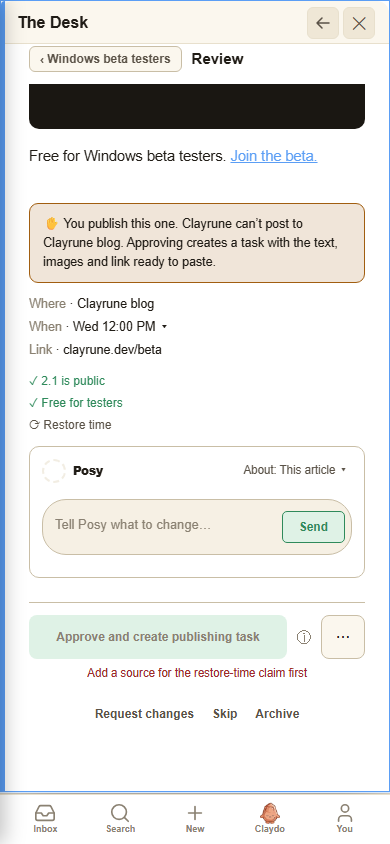
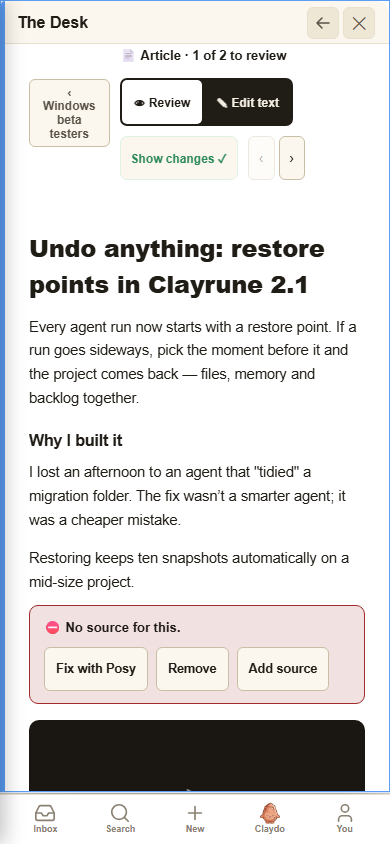
Desk v1 T3: shell crumb-tools slot + kit Posy compact mode (Dave's authorization)
T3's review header previously rendered as its own bordered row below the
shared one-row crumb bar, and the Posy box always showed the name/avatar
row + text "Send" button — neither matched frame 12b, and both were
shared-component code outside T3's file list.

- desk-v1-shell.js: crumb template gains an optional trailing
  #desk-v1-crumb-tools slot, cleared on every deskV1Render(). All 7
  non-review routes render it empty (one row, unchanged Back label).
- desk-v1-kit.js posyBoxHTML(): new opt-in options — compact:true drops
  the name/avatar row, sendStyle:'arrow' swaps the text "Send" button for
  a round icon button (aria-label "Send"). Defaults render byte-identical
  markup to before.
- desk-v1-review.js: moves "Article · 1 of 2 to review" + the
  Review/Edit toggle, Show changes, and < > into #desk-v1-crumb-tools;
  drops the now-obsolete .desk-v1-review-header wrapper and its stale
  _wireAll bindings; Posy box call site uses compact:true, sendStyle:'arrow'.
- tools/smoke/desk-v1-kit.mjs: asserts default Posy box markup is
  unchanged and the new options render.
- tools/smoke/desk-v1-harness.mjs: asserts every non-review route still
  shows a one-row crumb with an empty crumb-tools slot.
- Re-shot t3_review_desktop_1440.png / t3_review_phone_390.png against
  the new layout.

diff --git a/static/js/desk-v1-review.js b/static/js/desk-v1-review.js
@@ -124,6 +124,11 @@
   function _pair() { return _st && _st.versionId ? _findFamilyVersion(_st.versionId) : null; }
 
   // ── render ─────────────────────────────────────────────────────────────
+  function _clearCrumbTools() {
+    const host = document.getElementById('desk-v1-crumb-tools');
+    if (host) host.innerHTML = '';
+  }
+
   function _renderAll() {
     const el = _st.el;
     _closeSelToolbar();
@@ -135,10 +140,15 @@
           <div class="desk-v1-review-empty-body">Every piece in this campaign is scheduled, published, skipped or archived.</div>
           <button type="button" class="desk-v1-stub-link" onclick="deskV1Back()">‹ Back to campaign</button>
         </div>`;
+      _clearCrumbTools();
       return;
     }
     const pair = _pair();
-    if (!pair) { el.innerHTML = `<div class="desk-v1-stub"><div class="desk-v1-stub-body">This version no longer exists.</div></div>`; return; }
+    if (!pair) {
+      el.innerHTML = `<div class="desk-v1-stub"><div class="desk-v1-stub-body">This version no longer exists.</div></div>`;
+      _clearCrumbTools();
+      return;
+    }
     const { family, version } = pair;
     const channel = _channel(version.channelId);
     const detail = _detail(version.id);
@@ -147,7 +157,8 @@
 
     el.innerHTML = `
       <div class="desk-v1-review">
-        ${_headerHTML(family, idx, list.length, isVideo)}
+        <div class="desk-v1-review-savestatus" id="desk-v1-review-savestatus"></div>
+        <div id="desk-v1-review-conflict"></div>
         <div class="desk-v1-review-layout">
           <div class="desk-v1-review-main" id="desk-v1-review-main">
             ${isVideo ? _videoBodyHTML(family, version) : _articleBodyHTML(family, version, detail)}
@@ -157,29 +168,38 @@
           </div>
         </div>
       </div>`;
+    _renderCrumbTools(idx, list.length, isVideo);
     _wireAll(el, family, version, channel, detail, isVideo);
   }
 
-  function _headerHTML(family, idx, total, isVideo) {
+  // Frame 12b's one row (back link · doc label/count · controls): rendered
+  // straight into the shell's own #desk-v1-crumb-tools slot (desk-v1-
+  // shell.js) instead of a second header row inside `el`, so it survives
+  // every _renderAll() the same way the crumb itself does. Shell rebuilds
+  // this slot fresh on every navigation (deskV1Render), so no teardown is
+  // needed when leaving the review route.
+  function _renderCrumbTools(idx, total, isVideo) {
+    const host = document.getElementById('desk-v1-crumb-tools');
+    if (!host) return;
     const kindGlyph = isVideo ? '🎥' : '📄';
     const kindWord = isVideo ? 'Video' : 'Article';
-    return `
-      <div class="desk-v1-review-header">
-        <div class="desk-v1-review-kind">${kindGlyph} ${kindWord} · ${idx + 1} of ${total} to review</div>
-        <div class="desk-v1-review-controls">
-          <div class="desk-v1-review-modetoggle" role="tablist" aria-label="Review or edit">
-            <button type="button" data-mode-btn="review" aria-pressed="${_st.mode === 'review'}">👁 Review</button>
-            <button type="button" data-mode-btn="edit" aria-pressed="${_st.mode === 'edit'}">✎ Edit text</button>
-          </div>
-          <button type="button" class="desk-v1-review-showchanges" data-show-changes aria-pressed="${_st.showChanges}">Show changes${_st.showChanges ? ' ✓' : ''}</button>
-          <div class="desk-v1-review-stepper">
-            <button type="button" data-step="-1" aria-label="Previous needs-you item" ${idx <= 0 ? 'disabled' : ''}>‹</button>
-            <button type="button" data-step="1" aria-label="Next needs-you item" ${idx >= total - 1 ? 'disabled' : ''}>›</button>
-          </div>
+    host.innerHTML = `
+      <div class="desk-v1-review-kind">${kindGlyph} ${kindWord} · ${idx + 1} of ${total} to review</div>
+      <div class="desk-v1-review-controls">
+        <div class="desk-v1-review-modetoggle" role="tablist" aria-label="Review or edit">
+          <button type="button" data-mode-btn="review" aria-pressed="${_st.mode === 'review'}">👁 Review</button>
+          <button type="button" data-mode-btn="edit" aria-pressed="${_st.mode === 'edit'}">✎ Edit text</button>
         </div>
-      </div>
-      <div class="desk-v1-review-savestatus" id="desk-v1-review-savestatus"></div>
-      <div id="desk-v1-review-conflict"></div>`;
+        <button type="button" class="desk-v1-review-showchanges" data-show-changes aria-pressed="${_st.showChanges}">Show changes${_st.showChanges ? ' ✓' : ''}</button>
+        <div class="desk-v1-review-stepper">
+          <button type="button" data-step="-1" aria-label="Previous needs-you item" ${idx <= 0 ? 'disabled' : ''}>‹</button>
+          <button type="button" data-step="1" aria-label="Next needs-you item" ${idx >= total - 1 ? 'disabled' : ''}>›</button>
+        </div>
+      </div>`;
+    host.querySelectorAll('[data-mode-btn]').forEach((b) => b.onclick = () => _setMode(b.dataset.modeBtn));
+    const scEl = host.querySelector('[data-show-changes]');
+    if (scEl) scEl.onclick = () => { _st.showChanges = !_st.showChanges; _renderAll(); };
+    host.querySelectorAll('[data-step]').forEach((b) => b.onclick = () => _step(parseInt(b.dataset.step, 10)));
   }
 
   // ── article body ───────────────────────────────────────────────────────
@@ -363,6 +383,7 @@
 
     const posyHTML = window.DeskV1Kit ? window.DeskV1Kit.posyBoxHTML({
       inputId: 'desk-v1-review-posy-input', scopeLabel: 'This article',
+      compact: true, sendStyle: 'arrow',
     }) : '';
 
     return `
@@ -412,11 +433,6 @@
 
   // ── wiring ─────────────────────────────────────────────────────────────
   function _wireAll(el, family, version, channel, detail, isVideo) {
-    el.querySelectorAll('[data-mode-btn]').forEach((b) => b.onclick = () => _setMode(b.dataset.modeBtn));
-    const scEl = el.querySelector('[data-show-changes]');
-    if (scEl) scEl.onclick = () => { _st.showChanges = !_st.showChanges; _renderAll(); };
-    el.querySelectorAll('[data-step]').forEach((b) => b.onclick = () => _step(parseInt(b.dataset.step, 10)));
-
     el.querySelectorAll('[data-claim-addsource]').forEach((b) => b.onclick = () => { _st.claims[b.dataset.claimAddsource].addingSource = true; _renderAll(); });
     el.querySelectorAll('[data-source-cancel]').forEach((b) => b.onclick = () => { _st.claims[b.dataset.sourceCancel].addingSource = false; _renderAll(); });
     el.querySelectorAll('[data-source-input]').forEach((inp) => inp.oninput = () => { _st.claims[inp.dataset.sourceInput].sourceDraft = inp.value; });

diff --git a/static/css/desk-v1.css b/static/css/desk-v1.css
@@ -19,6 +19,15 @@
 }
 .desk-v1-back:hover { background: var(--surface3); color: var(--text); }
 .desk-v1-crumb-title { font-size: 15px; font-weight: 700; color: var(--text); }
+.desk-v1-crumb-title:empty { display: none; }
+/* Optional per-route trailing content (e.g. T3's doc label/count + review
+   controls, frame 12b's one-row header) — empty on every other route, so it
+   must take no space and add no gap there. */
+.desk-v1-crumb-tools {
+  flex: 1 1 auto; min-width: 0; display: flex; align-items: center;
+  justify-content: space-between; gap: 12px; flex-wrap: wrap;
+}
+.desk-v1-crumb-tools:empty { display: none; }
 .desk-v1-body { flex: 1 1 auto; overflow-y: auto; min-height: 0; }
 
 .desk-v1-stub {
@@ -131,6 +140,19 @@
 .desk-v1-posy-output { min-height: 0; padding: 0; background: transparent; }
 .desk-v1-posy-chips { margin: 0; }
 
+/* compact:true (frame 12b) — no avatar/name to push away from, so the scope
+   chip sits at the row's own left edge instead of being shoved right. */
+.desk-v1-posy-box-compact .desk-thread-head { margin-bottom: 0; }
+.desk-v1-posy-box-compact .desk-v1-posy-scope { margin-left: 0; padding-left: 0; }
+/* sendStyle:'arrow' (frame 12b) — round icon button beside the input,
+   instead of the text .btn-dispatch pill. */
+.desk-v1-posy-send-arrow {
+  flex: 0 0 auto; width: 30px; height: 30px; border-radius: 50%;
+  background: var(--green); color: var(--bg); border: none; cursor: pointer;
+  font-size: 13px; line-height: 1; display: flex; align-items: center; justify-content: center;
+}
+.desk-v1-posy-send-arrow:hover { background: var(--green-text); }
+
 @media (max-width: 960px) {
   .desk-v1-addto-menu button,
   .desk-v1-info-btn { min-height: 44px; }
@@ -165,18 +187,12 @@
 
 .desk-v1-review { display: flex; flex-direction: column; gap: 10px; height: 100%; min-height: 0; }
 
-/* Flush with the shell's own crumb bar above it (frame 12b reads as one
-   continuous header, not two stacked cards) — a bottom rule instead of a
-   floating bordered card. The crumb bar itself is T0a's file (desk-v1-
-   shell.js, docs/desk_v1_r0_plan.md T3 "Files:" line) and shared by every
-   other route, so it isn't merged away here; this is as close as a T3-only
-   change gets. */
-.desk-v1-review-header {
-  display: flex; align-items: center; justify-content: space-between; gap: 12px;
-  flex: 0 0 auto; padding: 0 0 10px; border-bottom: 1px solid var(--border2);
-  flex-wrap: wrap;
-}
-.desk-v1-review-kind { font-size: 13px; font-weight: 600; color: var(--text); }
+/* Frame 12b's one row: doc label/count + controls now render straight into
+   the shell's #desk-v1-crumb-tools slot (desk-v1-shell.js), not a second row
+   of our own — see _renderCrumbTools() in desk-v1-review.js. These classes
+   are shared between that slot and nothing else, so no wrapper rule of our
+   own is needed here anymore. */
+.desk-v1-review-kind { font-size: 13px; font-weight: 600; color: var(--text); white-space: nowrap; }
 .desk-v1-review-controls { display: flex; align-items: center; gap: 10px; flex-wrap: wrap; }
 
 /* Frame 12b: a dark track with the ACTIVE segment as a light pill (not the

diff --git a/static/js/desk-v1-kit.js b/static/js/desk-v1-kit.js
@@ -277,10 +277,18 @@
   // already established for the Queue's push-back thread. This renders
   // markup only — a surface ticket supplies the real scope/suggestion/chips
   // and wires `onSend`; the kit doesn't invent a suggestion source. ────────
+  //
+  // opts.compact / opts.sendStyle are opt-in (frame 12b): compact drops the
+  // avatar+"Posy" name row so the scope chip is the box's only top-row
+  // content; sendStyle:'arrow' swaps the text Send button for a round icon
+  // one. Both default OFF, producing byte-identical markup to before either
+  // option existed — callers that don't pass them are unaffected.
   function posyBoxHTML(opts) {
     opts = opts || {};
     const inputId = opts.inputId || ('desk-v1-posy-input-' + Math.random().toString(36).slice(2));
-    const avatar = (typeof window.avatarHTML === 'function') ? window.avatarHTML(opts.avatar || 'posy', 24) : '';
+    const compact = !!opts.compact;
+    const avatar = (!compact && typeof window.avatarHTML === 'function') ? window.avatarHTML(opts.avatar || 'posy', 24) : '';
+    const nameHTML = compact ? '' : '<span class="desk-thread-name">Posy</span>';
     const scope = opts.scopeLabel
       ? `<button type="button" class="desk-v1-posy-scope" data-scope-trigger="1">About: ${esc(opts.scopeLabel)} &#9662;</button>`
       : '';
@@ -293,14 +301,17 @@
           chips.map(c => `<button type="button" class="agent-question-chip" data-chip="${esc(c)}">${esc(c)}</button>`).join('')
         }</div>`
       : '';
+    const sendBtnHTML = opts.sendStyle === 'arrow'
+      ? `<button type="button" class="desk-v1-posy-send-arrow" data-posy-send="${esc(inputId)}" aria-label="Send">&#10148;</button>`
+      : `<button class="btn-dispatch" data-posy-send="${esc(inputId)}">Send</button>`;
     return `
-      <div class="desk-v1-posy-box">
-        <div class="desk-thread-head">${avatar}<span class="desk-thread-name">Posy</span>${scope}</div>
+      <div class="desk-v1-posy-box${compact ? ' desk-v1-posy-box-compact' : ''}">
+        <div class="desk-thread-head">${avatar}${nameHTML}${scope}</div>
         <div class="agent-output desk-v1-posy-output">${suggestionHTML}</div>
         ${chipsHTML}
         <div class="agent-input-row">
           <textarea class="agent-task-input" id="${esc(inputId)}" rows="1" placeholder="Tell Posy what to change…"></textarea>
-          <button class="btn-dispatch" data-posy-send="${esc(inputId)}">Send</button>
+          ${sendBtnHTML}
         </div>
       </div>`;
   }

diff --git a/static/js/desk-v1-shell.js b/static/js/desk-v1-shell.js
@@ -20,7 +20,12 @@
     home:          { parent: null,      label: 'Home',          render: () => window.deskV1RenderHome },
     campaign:      { parent: 'home',    label: _campaignLabel,  render: () => _renderCampaignSkeleton },
     rules:         { parent: 'campaign', label: 'Rules',        render: () => window.deskV1RenderRules },
-    review:        { parent: 'campaign', label: 'Review',       render: () => window.deskV1RenderReview },
+    // Empty label: T3 renders its own doc-label/count into the crumb-tools
+    // slot below instead (frame 12b, one row). Safe only because no route's
+    // `parent` is 'review' today — the SAME label also becomes a child
+    // route's back-button text (see _routeLabel/deskV1Render above), so a
+    // future child of review would need a real label again.
+    review:        { parent: 'campaign', label: '',             render: () => window.deskV1RenderReview },
     calendar:      { parent: 'campaign', label: 'Calendar',     render: () => window.deskV1RenderCalendar },
     video:         { parent: 'campaign', label: 'Video',        render: () => window.deskV1RenderVideo },
     conversations: { parent: 'campaign', label: 'Conversations', render: () => window.deskV1RenderConversations },
@@ -68,7 +73,8 @@
       ${parentEntry
         ? `<button type="button" class="desk-v1-back" onclick="deskV1Back()">&lsaquo; ${esc(_routeLabel(parentEntry))}</button>`
         : ''}
-      <span class="desk-v1-crumb-title">${esc(_routeLabel(entry))}</span>`;
+      <span class="desk-v1-crumb-title">${esc(_routeLabel(entry))}</span>
+      <div class="desk-v1-crumb-tools" id="desk-v1-crumb-tools"></div>`;
 
     const routeDef = ROUTES[entry.route];
     const renderFn = routeDef && routeDef.render();
